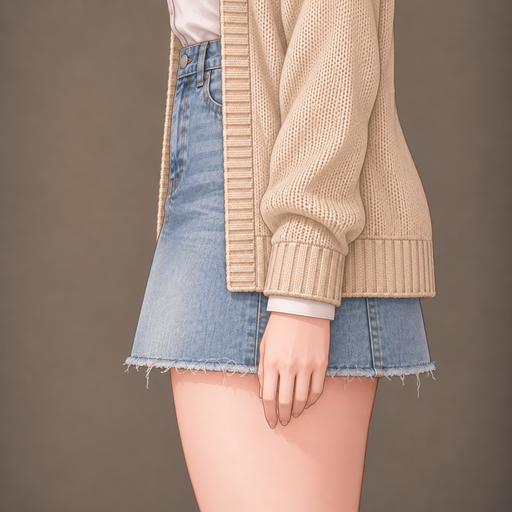
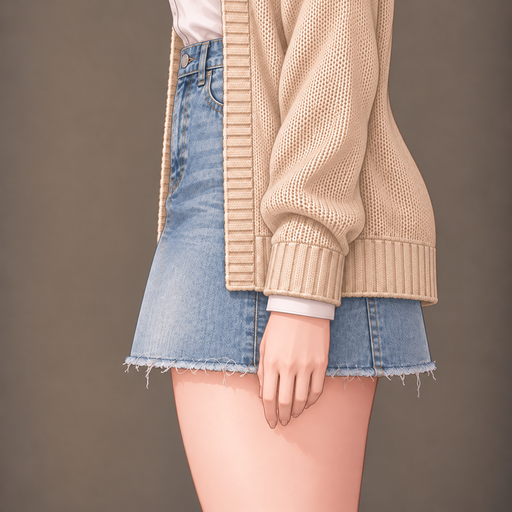
修订下装近景与腰臀方向结构 168

diff --git a/wardrobe-samples-illustrated/制作规范.md b/wardrobe-samples-illustrated/制作规范.md
@@ -43,3 +43,11 @@
 用户已明确允许程序纯裁切和缩小，不重绘人物或服装。上装去除顶部残留颈根；袜子和下装采用各自区域近景。头饰、鞋子最长边不超过512像素；上装、下装和袜子宽度不超过512像素、高度不超过768像素。纯裁切后的实际尺寸逐张记录，避免为凑尺寸拉伸画面。水手服长发较大规格正面采用肩线至腰部的更紧构图。
 
 原附件的摄影提示词与负向词保留作来源记录，实际风格以本规范和插画参考为准。185个目标文件包含明确注明的胸围规格背面复用，人物及方向锚点另计。
+
+## 下装近景修订（2026-10-20）
+
+- 下装镜头收近到腰线上方少许至裙／裤下摆下方少许，去掉胸部、大段腿部及膝盖，保留完整下装与画内双手。图像最长边不超过512像素，纯裁切后不拉伸凑尺寸。
+- 侧面使用严格侧向镜头，表现自然的后腰内收、胯部外弧和衣料过渡；通过站姿与衣料悬垂改善轮廓，不增大臀围或过度勒腰。手臂稍向前移，避免遮挡后腰及后侧轮廓。
+- 正面保留前腰、前片与门襟等实际结构；背面表现后中缝、后片褶向、后贴袋或独立裤腿，不能复制正面门襟、前袋和装饰。
+- 各方向仍沿用同一套装的上衣、面料与衣摆长度；外套遮住部分后腰或后袋属于真实穿搭，不得为显露下装而擅自缩短外套。
+- 四套下装的中文路径保持不变，每张修订单独上传，生成清单保留修订来源和实际尺寸。

diff --git a/wardrobe-samples-illustrated/README.md b/wardrobe-samples-illustrated/README.md
@@ -256,6 +256,7 @@
 
 
 
+
 ## 正式素材进度
 
 已生成独立服装素材 **185 / 185** 张、独立人物锚点 **10 / 10** 张。
